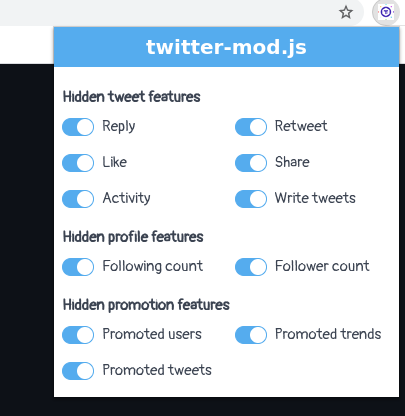
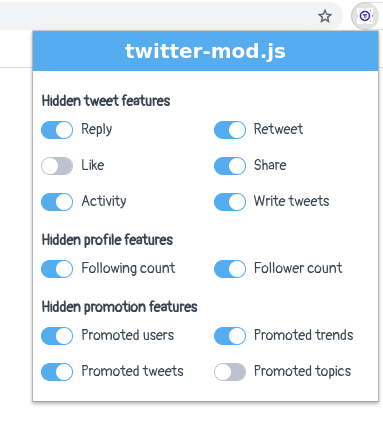
add "Topics to follow" toggle

diff --git a/src/html/settings-page.html b/src/html/settings-page.html
@@ -78,12 +78,14 @@
           </div>
         </div>
         <div class='columns'>
-          <div class="column col-7">
+          <div class="column col-6">
             <div data-include-html="/html/blobs/checkbox-switch.html" data-var-id="promotedTweet" data-var-label="Promoted tweets"></div>
+          </div>
+          <div class="column col-6">
+            <div data-include-html="/html/blobs/checkbox-switch.html" data-var-id="promotedTopics" data-var-label="Promoted topics"></div>
           </div>
         </div>
       </section>
-
     </div>
     <script src="/js/vendor/rstl.min.js"></script>
     <script src="/js/settings-page.js" type="module"></script>

diff --git a/src/js/content-scripts/content-script.js b/src/js/content-scripts/content-script.js
@@ -1,6 +1,7 @@
 import toggle from './content-script-helpers/toggle.js';
 import toggleWhoToFollow from './content-script-helpers/toggle-who-to-follow.js';
 import togglePromotedTweet from './content-script-helpers/toggle-promoted-tweet.js';
+import togglePromotedTopics from './content-script-helpers/toggle-promoted-topics.js';
 
 setInterval(() => {
   chrome.runtime.sendMessage('get-disabled-features', (disabled) => {
@@ -61,6 +62,8 @@ setInterval(() => {
     toggleWhoToFollow(disabled);
     /* promoted tweets */
     togglePromotedTweet(disabled);
+    /* promoted topics */
+    togglePromotedTopics(disabled);
   });
 }, 250);
 

diff --git a/src/js/content-scripts/content-script-helpers/toggle-promoted-topics.js b/src/js/content-scripts/content-script-helpers/toggle-promoted-topics.js
@@ -1,0 +1,10 @@
+import toggle from './toggle.js';
+
+export default function (disabled) {
+  /* Toggles sidebar "Topics to follow" */
+  toggle(
+    [document.querySelector('[aria-labelledby="accessible-list-2"]')],
+    disabled.includes('promotedTopics'),
+    'display-none'
+  );
+}

diff --git a/src/js/content-scripts/content-script-helpers/toggle-who-to-follow.js b/src/js/content-scripts/content-script-helpers/toggle-who-to-follow.js
@@ -7,7 +7,7 @@ const ignoredPaths = [
   /\/retweets$/,
   /\/timeline$/,
   /^\/settings\//,
-  /^\/hashtag\//,
+  /^\/hashtag\//
 ];
 
 const headerText = [

diff --git a/src/js/background/app/settings.js b/src/js/background/app/settings.js
@@ -10,6 +10,7 @@ export default function (app) {
     'compose',
     'whoToFollow',
     'trendingNow',
+    'promotedTopics',
     'promotedTweet'
   ]);
 

diff --git a/src/css/settings-page.css b/src/css/settings-page.css
@@ -43,7 +43,7 @@ header .text {
 }
 
 #settings section {
-  font-size: 15px;
+  font-size: 14px;
   margin: 0 0 10px 0;
 }
 
